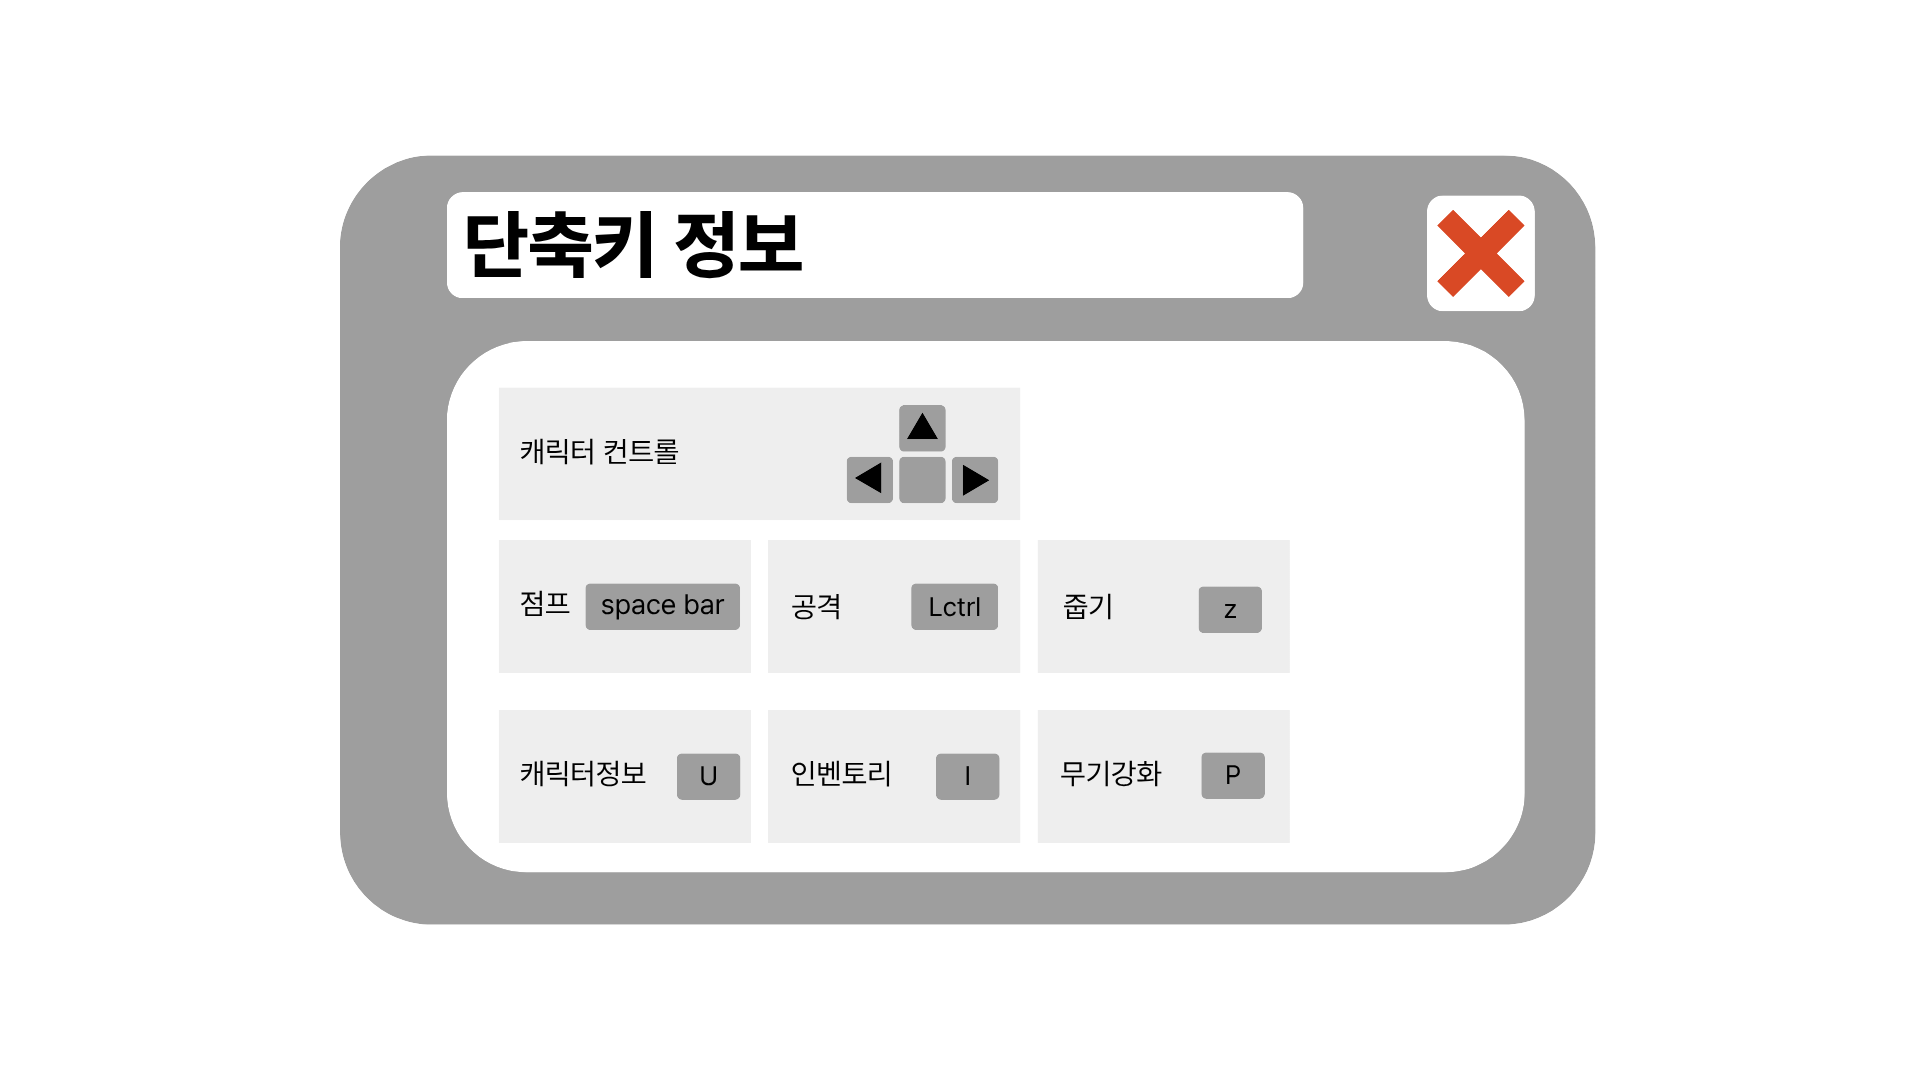
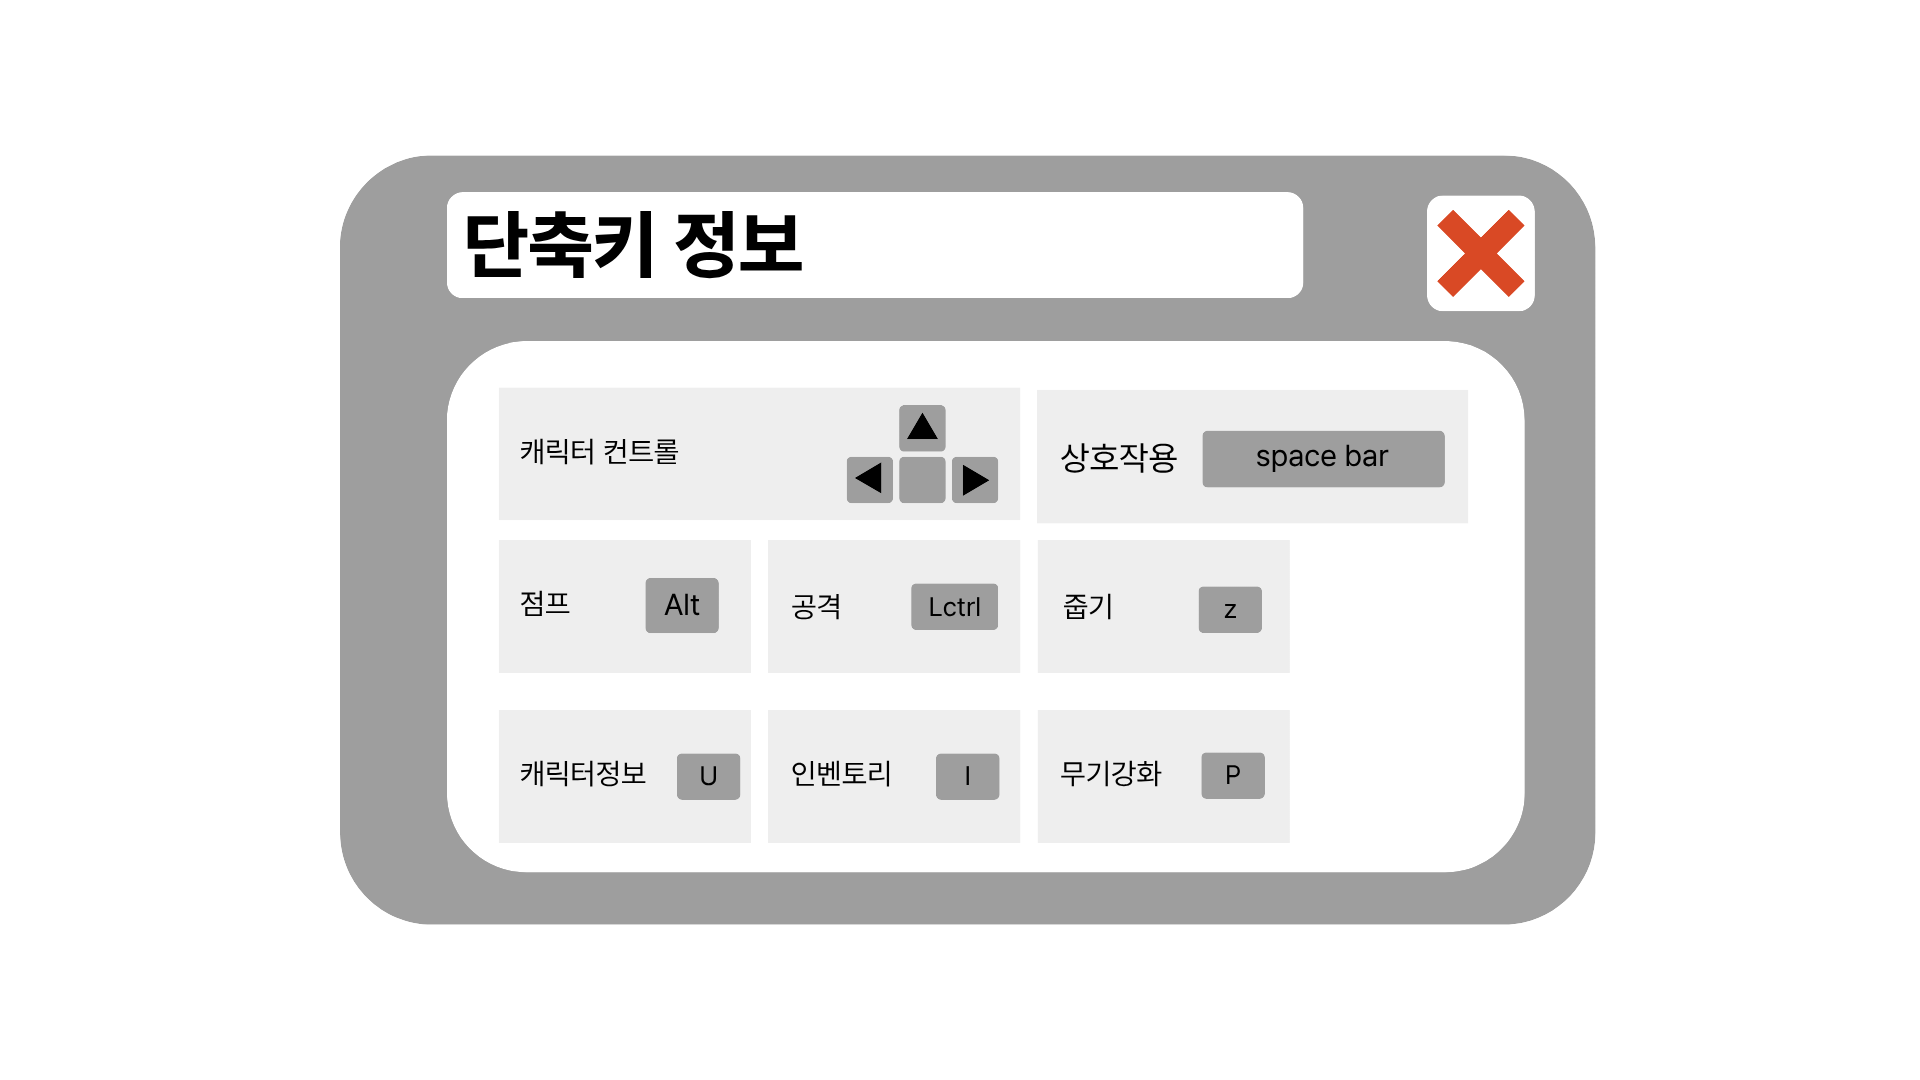
인벤토리 창 추가

Changed region(s): [[0.5625, 0.3972, 0.75, 0.4583], [0.2812, 0.5194, 0.4062, 0.5806]]

diff --git a/play_mode.py b/play_mode.py
@@ -7,7 +7,7 @@ import game_world
 from boy import Boy
 from field import Field
 from monster import Mushroom
-from item import DropItem
+from item import DropItem, ITEM_IMAGES
 
 field = None
 boy = None
@@ -42,6 +42,10 @@ ui_weapon_open = False     # P
 
 char_panel_img = None
 CHAR_PANEL_SCALE = 0.5
+
+inven_panel_img = None
+INVEN_PANEL_SCALE = 0.5
+inv_item_images = {}
 
 DROP_TABLE = [
     ('10원',   0.3),
@@ -176,6 +180,8 @@ def init():
     global field, boy, current_map, _transition_cooldown, monsters, items
     global menu_open, menu_img
     global char_panel_img
+    global inven_panel_img, inv_item_images
+
 
     load_map("henesys", "default")
 
@@ -184,8 +190,9 @@ def init():
     menu_img = load_image('사진수집/etc/메뉴창.png')
     char_panel_img = load_image('사진수집/etc/캐릭터정보.png')
 
-    print("[INIT] char_panel_img =", char_panel_img)
-    print("[INIT] char_panel_img size =", char_panel_img.w, char_panel_img.h)
+    inven_panel_img = load_image('사진수집/etc/인벤2.png')
+
+    inv_item_images = {}
 
     _init_menu_layout()
 
@@ -438,50 +445,66 @@ def handle_events():
 
     event_list = get_events()
     for event in event_list:
+        # 창 닫기
         if event.type == SDL_QUIT:
             game_framework.quit()
+            continue
 
+        # ESC 키
+        if event.type == SDL_KEYDOWN and event.key == SDLK_ESCAPE:
+            # 서브창/메뉴 다 닫기
+            if ui_char_open or ui_inven_open or ui_hotkey_open or ui_weapon_open:
+                ui_char_open = ui_inven_open = ui_hotkey_open = ui_weapon_open = False
+                print("[UI] 서브창 닫기 (ESC)")
+            else:
+                # 아무 서브창도 안 열려 있으면 메뉴 토글
+                menu_open = not menu_open
+                print("[UI] 메뉴 토글 =", menu_open)
+            continue
+
+        # ====== 서브창 단축키 ======
         if event.type == SDL_KEYDOWN:
+            # 캐릭터 정보 (U)
             if event.key == SDLK_u:
                 ui_char_open = True
                 ui_inven_open = ui_hotkey_open = ui_weapon_open = False
                 menu_open = False
                 print("[GLOBAL] 캐릭터 정보 (U)")
                 continue
-            elif event.key == SDLK_i:
+
+            # 인벤토리 (I)
+            if event.key == SDLK_i:
                 ui_inven_open = True
                 ui_char_open = ui_hotkey_open = ui_weapon_open = False
                 menu_open = False
                 print("[GLOBAL] 인벤토리 (I)")
                 continue
-            elif event.key == SDLK_o:
+
+            # 단축키 정보 (O)
+            if event.key == SDLK_o:
                 ui_hotkey_open = True
                 ui_char_open = ui_inven_open = ui_weapon_open = False
                 menu_open = False
                 print("[GLOBAL] 단축키 정보 (O)")
                 continue
-            elif event.key == SDLK_p:
+
+            # 무기 강화 (P)
+            if event.key == SDLK_p:
                 ui_weapon_open = True
                 ui_char_open = ui_inven_open = ui_hotkey_open = False
                 menu_open = False
                 print("[GLOBAL] 무기 강화 (P)")
                 continue
-        if ui_char_open or ui_inven_open or ui_hotkey_open or ui_weapon_open:
-            if event.type == SDL_KEYDOWN and event.key == SDLK_ESCAPE:
-                ui_char_open = ui_inven_open = ui_hotkey_open = ui_weapon_open = False
-                print("[UI] 서브창 닫기 (ESC)")
-            # 서브창 열려 있을 땐 다른 입력은 무시
-            continue
-        if event.type == SDL_KEYDOWN and event.key == SDLK_ESCAPE:
-            menu_open = not menu_open
-            print("ESC pressed, menu_open =", menu_open)
-            continue
 
+        # ====== 메뉴가 열려 있을 때 마우스 처리 (나중에 버튼 클릭용) ======
         if menu_open:
-            _handle_menu_event(event)
+            # 여기서 _handle_menu_event(event) 같은 걸 부르면 됨
+            # 지금은 스킵
             continue
 
+        # ====== 평소 게임 조작(캐릭터 이동/점프/공격 등) ======
         boy.handle_event(event)
+
 
 
 def _handle_collisions():
@@ -616,7 +639,6 @@ def draw():
         scaled_h = int(menu_img.h * MENU_SCALE)
         menu_img.draw(cw // 2, ch // 2, scaled_w, scaled_h)
 
-        # 인벤토리 / 무기 강화 창
     _draw_subwindows()
 
     update_canvas()
@@ -655,23 +677,7 @@ def _draw_subwindows():
 
     _draw_char_window()
 
-    # 캐릭터 정보 (U)
-    if ui_char_open:
-        w, h = 500, 320
-        x0 = cw // 2 - w // 2
-        y0 = ch // 2 - h // 2
-        x1 = x0 + w
-        y1 = y0 + h
-        draw_rectangle(x0, y0, x1, y1)
-
-    # 인벤토리 (I)
-    if ui_inven_open:
-        w, h = 500, 320
-        x0 = cw // 2 - w // 2
-        y0 = ch // 2 - h // 2
-        x1 = x0 + w
-        y1 = y0 + h
-        draw_rectangle(x0, y0, x1, y1)
+    _draw_inventory_window()
 
     # 단축키 정보 (O)
     if ui_hotkey_open:
@@ -785,6 +791,102 @@ def _draw_char_window():
     font.draw(num_x, weapon_y, wlv_s, (0, 0, 0))  # 무기레벨
     font.draw(num_x, attack_y, atk_s, (0, 0, 0))
 
+def _draw_inventory_window():
+    if not ui_inven_open:
+        return
+
+    cw, ch = get_canvas_width(), get_canvas_height()
+
+    if inven_panel_img is None:
+            # 이미지 없으면 임시 박스
+        w, h = 300, 500
+        x0 = cw // 2 - w // 2
+        y0 = ch // 2 - h // 2
+        draw_rectangle(x0, y0, x0 + w, y0 + h)
+        return
+
+        # 패널 위치/크기
+    w = int(inven_panel_img.w * INVEN_PANEL_SCALE)
+    h = int(inven_panel_img.h * INVEN_PANEL_SCALE)
+    cx, cy = cw // 2, ch // 2
+    panel_left = cx - w // 2
+    panel_bottom = cy - h // 2
+
+        # 패널 이미지 그리기
+    inven_panel_img.draw(cx, cy, w, h)
+
+        # ==========================
+        # 1) 인벤 아이템 그리드
+        #    (돈 제외한 아이템들만)
+        # ==========================
+    money_kinds = ('10원', '100원', '1000원', '5000원')
+
+        # (kind, count) 리스트 만들기
+    inv_list = []
+    for kind, cnt in getattr(boy, 'inventory', {}).items():
+        if cnt <= 0:
+            continue
+        if kind in money_kinds:
+            continue
+        inv_list.append((kind, cnt))
+        # 4 x 5 슬롯 (위 그림 기준)
+    cols, rows = 4, 5
+    max_slots = cols * rows
+
+        #내부 그리드 영역 (패널 비율로 계산)
+    grid_left = panel_left + int(w * 0.22)
+    grid_right = panel_left + int(w * 0.82)
+    grid_bottom = panel_bottom + int(h * 0.16)
+    grid_top = panel_bottom + int(h * 0.82)
+
+    slot_w = (grid_right - grid_left) / cols
+    slot_h = (grid_top - grid_bottom) / rows
+
+        # 아이콘 크기 비율
+    icon_scale = 0.1
+
+    for idx in range(min(len(inv_list), max_slots)):
+        kind, cnt = inv_list[idx]
+        c = idx % cols  # 0 ~ 3
+        r = idx // cols  # 0 ~ 4 (0이 맨 위)
+            # 슬롯 중심 좌표
+        cx_slot = grid_left + slot_w * (c + 0.5)
+        cy_slot = grid_top - slot_h * (r + 0.5)
+
+            # 아이콘 이미지 준비 (캐시 사용)
+        if kind not in inv_item_images:
+            path = ITEM_IMAGES.get(kind, None)
+            if path:
+                inv_item_images[kind] = load_image(path)
+        img = inv_item_images.get(kind, None)
+        if img is None:
+            continue
+
+            # 아이콘 그리기
+        iw = int(img.w * icon_scale)
+        ih = int(img.h * icon_scale)
+        img.draw(int(cx_slot), int(cy_slot), iw, ih)
+
+            # 개수 숫자 (오른쪽 아래에 작게)
+        count_str = str(cnt)
+        font = boy.font
+        font.draw(int(cx_slot + slot_w * 0.15),
+                    int(cy_slot - slot_h * 0.25),
+                    count_str, (0, 0, 0))
+
+        # ==========================
+        # 2) 누적 금액 표시 (맨 아래 흰 박스)
+        # ==========================
+    gold = getattr(boy, 'gold', 0)
+    gold_str = f'{gold}'
+
+    font = boy.font
+
+        # 아래 하얀 바 중앙쯤
+    gold_x = cx
+    gold_y = panel_bottom + int(h * 0.10)
+
+    font.draw(gold_x - len(gold_str) * 4, gold_y, gold_str, (0, 0, 0))
 
 
 def finish():

diff --git a/boy.py b/boy.py
@@ -489,6 +489,9 @@ class Boy:
         self.hp = self.max_hp
         self.alive = True
 
+        self.gold = 0
+        self.inventory = {}
+
         self.hp_bar_img = load_image('사진수집/etc/hp_bar_red.png')  # 빨간 바
         self.exp_bar_img = load_image('사진수집/etc/exp_bar_green.png')  # 초록 바
 
@@ -799,13 +802,22 @@ class Boy:
         self.state_machine.handle_state_event(('TAKE_HIT', from_dir))
 
     def obtain_item(self, kind: str):
-        """드랍템을 주웠을 때 호출 (인벤토리에 기록)"""
-        if kind in self.inventory:
-            self.inventory[kind] += 1
-        else:
-            self.inventory[kind] = 1
+        # 돈 종류는 gold에 누적
+        if kind == '10원':
+            self.gold += 10
+            return
+        elif kind == '100원':
+            self.gold += 100
+            return
+        elif kind == '1000원':
+            self.gold += 1000
+            return
+        elif kind == '5000원':
+            self.gold += 5000
+            return
 
-        print(f"OBTAIN ITEM: {kind}, now have {self.inventory[kind]}")
+            # 그 외는 인벤토리 아이템
+        self.inventory[kind] = self.inventory.get(kind, 0) + 1
 
     def gain_exp(self, amount: int):
         """경험치 획득"""
